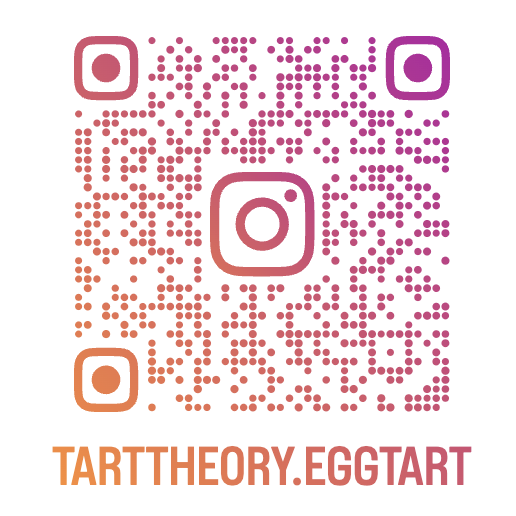
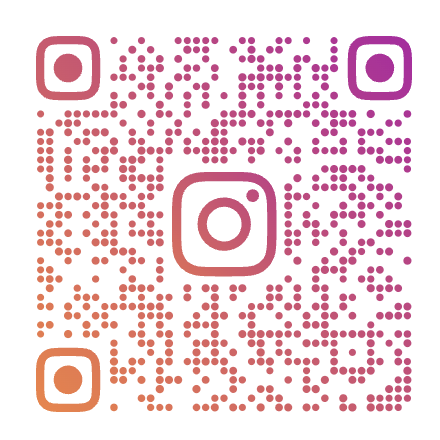
Center QR codes and match visual size to Venmo QR
- Centering bug: the <a> download-wrapper around each QR image used
  display:inline-block with no centering of its own. On the step
  cards (no text-align:center on that container), this left the QR
  flush left instead of centered. Changed all three wrappers to
  display:block; width:fit-content; margin:0 auto, which centers
  regardless of the parent's text-align.
- Visual size mismatch: the WeChat/Instagram QR source images had
  much more white padding around the actual scannable pattern than
  the Venmo QR (which is a near-full-bleed crop), making their pattern
  look smaller at the same 150x150/140x140 display size. Re-cropped
  both tightly to just the pattern (with a small quiet-zone margin),
  auto-detecting the WeChat crop bounds from the source image's
  content bbox. This also removed the Instagram QR's baked-in
  "TARTTHEORY.EGGTART" text label, which duplicated the label we
  already render below the image.

Verified previously-fixed issues still hold: no horizontal overflow,
sticky nav still pins on scroll.

diff --git a/index.html b/index.html
@@ -172,7 +172,7 @@
             </sc-if>
             <sc-if value="{{ st.hasQr }}" hint-placeholder-val="">
               <sc-if value="{{ st.hasRealQr }}" hint-placeholder-val="{{ true }}">
-                <a href="{{ st.qrImg }}" download="{{ st.qrId }}" style="display:inline-block">
+                <a href="{{ st.qrImg }}" download="{{ st.qrId }}" style="display:block; width:fit-content; margin:0 auto">
                   <img src="{{ st.qrImg }}" alt="QR" style="{{ st.qrStyle }}" />
                 </a>
               </sc-if>
@@ -335,7 +335,7 @@
           <div style="text-align:left; background:var(--surface-2); border:1px solid var(--line); border-radius:var(--radius-sm); padding:15px 16px; margin-bottom:16px">
             <div style="font-family:var(--font-body); font-weight:800; font-size:11.5px; letter-spacing:.05em; text-transform:uppercase; color:var(--muted); margin-bottom:10px">{{ t.toConfirmOrderLabel }}</div>
             <div style="text-align:center; margin-bottom:14px">
-              <a href="uploads/venmo-qr.png" download="tart-theory-venmo-qr.png" style="display:inline-block">
+              <a href="uploads/venmo-qr.png" download="tart-theory-venmo-qr.png" style="display:block; width:fit-content; margin:0 auto">
                 <img src="uploads/venmo-qr.png" alt="Venmo QR" style="width:140px; height:140px; margin:0 auto 8px; border-radius:12px; object-fit:cover; display:block" />
               </a>
               <div style="font-family:var(--font-body); font-weight:700; color:var(--text); font-size:14.5px; margin-bottom:2px">{{ t.scanToPay }} {{ totalLabel }}</div>
@@ -343,7 +343,7 @@
             </div>
             <sc-if value="{{ isZh }}" hint-placeholder-val="{{ true }}">
               <div style="text-align:center; margin-bottom:14px">
-                <a href="uploads/wechat-qr.jpg" download="tart-theory-wechat-qr.jpg" style="display:inline-block">
+                <a href="uploads/wechat-qr.jpg" download="tart-theory-wechat-qr.jpg" style="display:block; width:fit-content; margin:0 auto">
                   <img src="uploads/wechat-qr.jpg" alt="WeChat QR" style="width:140px; height:140px; margin:0 auto 8px; border-radius:12px; object-fit:cover; display:block" />
                 </a>
                 <div style="font-family:var(--font-body); font-weight:700; color:var(--text); font-size:14.5px; margin-bottom:2px">{{ t.wechatLabel }}</div>
